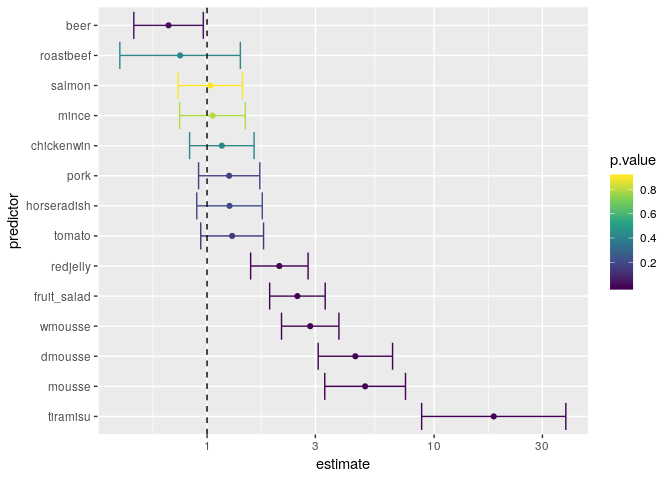
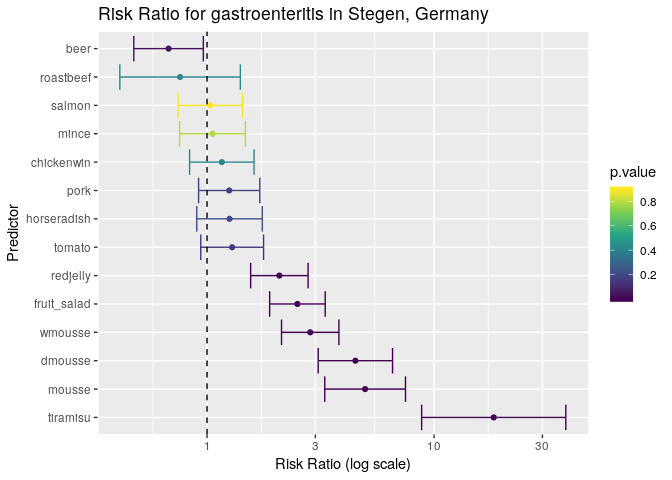
update main plot with proper labels

diff --git a/content/post/practical-stegen.md b/content/post/practical-stegen.md
@@ -1630,7 +1630,10 @@ p <- ggplot(all_food_df, aes(x = estimate, y = predictor, color = p.value)) +
   geom_errorbarh(aes(xmin = lower, xmax = upper)) +
   geom_vline(xintercept = 1, linetype = 2) + 
   scale_x_log10() + 
-  scale_color_viridis_c()
+  scale_color_viridis_c() +
+  labs(x = "Risk Ratio (log scale)", 
+       y = "Predictor",
+       title = "Risk Ratio for gastroenteritis in Stegen, Germany")
 p
 ```
 
